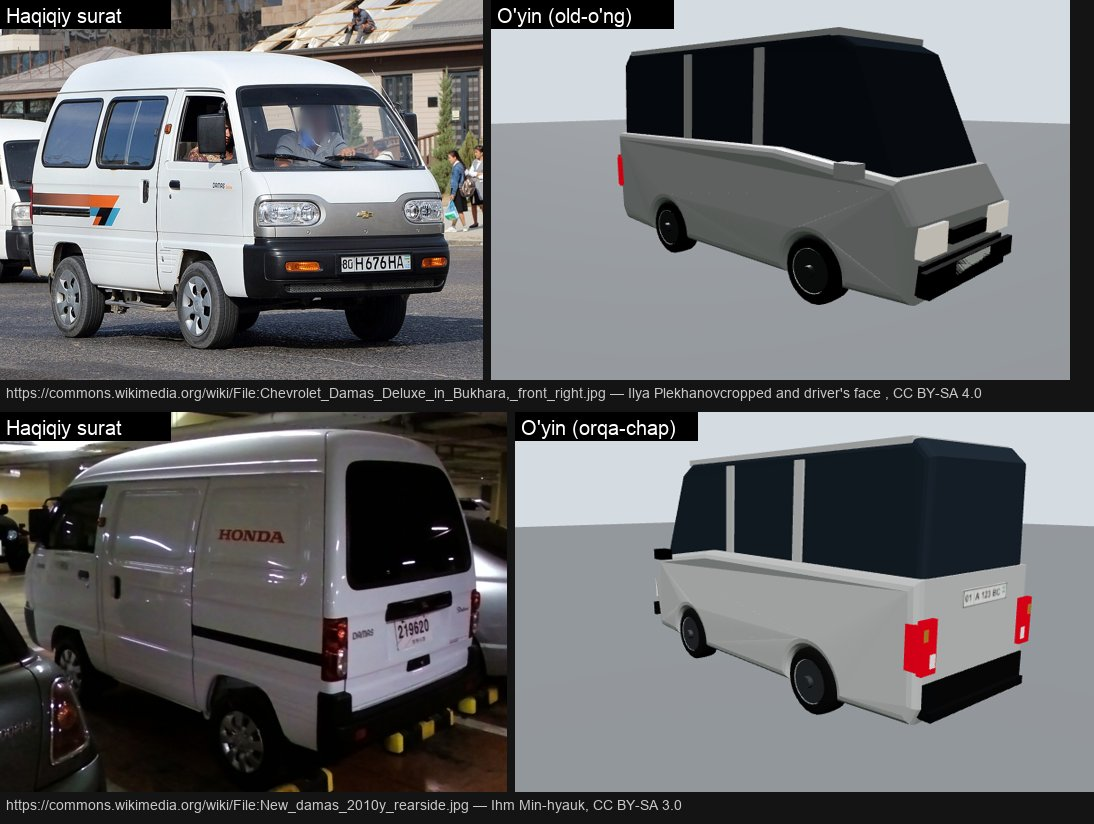
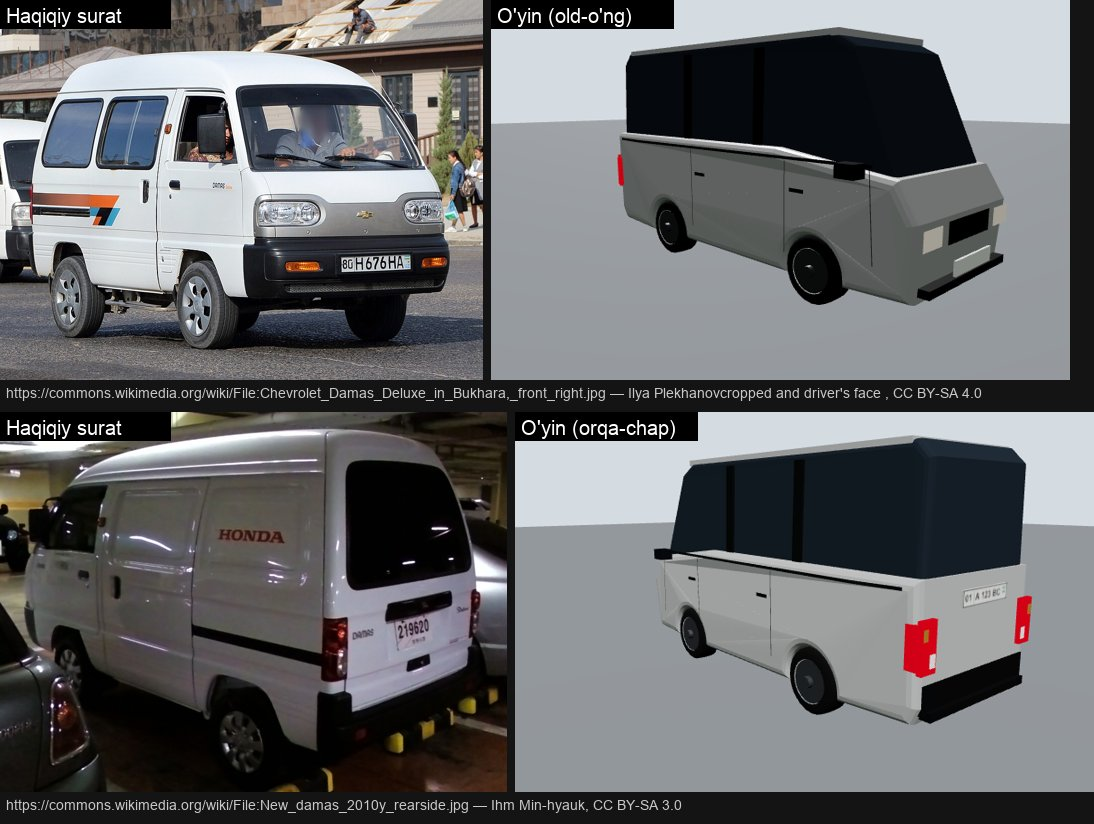
Detail kits for Gentra (plate on the lid), Nexia 3 (honeycomb grille, wheel covers, raised nose), Spark (tall lamps, big lower grille, lamps on the body), Malibu (slim lamps, chrome-framed grille, chrome window line, twin-spoke wheels) and Damas (lamps, grille, sliding-door line); reference comparis

diff --git a/www/js/uzcars.js b/www/js/uzcars.js
@@ -25,25 +25,25 @@ const MODELS = {
     L: 4.52, W: 1.725, H: 1.445, R: 0.3, wheels: [1.33, -1.27], smooth: true, weight: 0.22,
     top: [[2.28, 0.5], [2.22, 0.66], [1.95, 0.75], [1.2, 0.85], [0.8, 0.89], [-0.6, 0.94], [-1.55, 0.98], [-1.78, 1.0], [-2.18, 0.97], [-2.27, 0.84], [-2.25, 0.5]],
     glass: [[0.8, 0.9], [0.06, 1.41], [-0.8, 1.445], [-1.26, 1.36], [-1.62, 1.0]],
-    head: { x: 0.58, y: 0.71, z: 2.2, w: 0.48, h: 0.17, tilt: 0.55, sweep: { bot: 0.69, top: 0.79, len: 0.36 } }, tail: { x: 0.6, y: 0.88, w: 0.44, h: 0.17, bar: true, wrap: { inTop: 0.36, inBot: 0.44, top: 0.97, bot: 0.8, side: 0.26 } },
-    grille: { y: 0.64, w: 0.6, h: 0.12 }, lower: { y: 0.4, w: 0.9, h: 0.14 }, fog: true,
+    head: { x: 0.58, y: 0.71, z: 2.2, w: 0.48, h: 0.17, tilt: 0.55, sweep: { bot: 0.69, top: 0.79, len: 0.36 } }, tail: { x: 0.6, y: 0.88, w: 0.44, h: 0.17, bar: false, wrap: { inTop: 0.36, inBot: 0.44, top: 0.97, bot: 0.8, side: 0.26 }, plateOnLid: 0.82 },
+    grille: { y: 0.64, w: 0.6, h: 0.12 }, lower: { y: 0.4, w: 0.9, h: 0.14 }, fog: true, kit: 'gentra', frontPlateY: 0.43,
   },
   // Nexia 3 (also sold as Ravon Nexia R3, 2016-2020): the 4th-generation compact sedan body built at
   // Asaka. About 4310 x 1710 x 1505 mm, wheelbase 2480 mm. Tall cabin with a big rear window, short
   // boot, plate in a recess in the boot lid, round-element tail lamps on the corners, honeycomb grille.
   nexia: {
     L: 4.31, W: 1.71, H: 1.505, R: 0.3, wheels: [1.325, -1.155], smooth: true, weight: 0.18,
-    top: [[2.155, 0.6], [2.12, 0.78], [1.95, 0.86], [1.3, 0.93], [0.95, 0.95], [-0.5, 0.99], [-1.5, 1.03], [-1.75, 1.05], [-2.08, 1.03], [-2.155, 0.95], [-2.155, 0.55]],
+    top: [[2.155, 0.66], [2.13, 0.8], [1.95, 0.87], [1.3, 0.93], [0.95, 0.95], [-0.5, 0.99], [-1.5, 1.03], [-1.75, 1.05], [-2.08, 1.03], [-2.155, 0.95], [-2.155, 0.55]],
     glass: [[0.95, 0.94], [0.2, 1.47], [-0.55, 1.505], [-1.05, 1.46], [-1.58, 1.03]],
     head: { x: 0.58, y: 0.71, z: 2.13, w: 0.44, h: 0.15, tilt: 0.25, sweep: { bot: 0.68, top: 0.79, len: 0.3 } }, tail: { x: 0.58, y: 0.92, w: 0.36, h: 0.22, bar: false, wrap: { inTop: 0.5, inBot: 0.52, top: 1.01, bot: 0.8, side: 0.26 }, plateOnLid: 0.87, plateNoBar: true },
-    grille: { y: 0.66, w: 0.56, h: 0.14 }, lower: { y: 0.42, w: 1.0, h: 0.14 }, fog: true,
+    grille: { y: 0.66, w: 0.56, h: 0.14 }, lower: { y: 0.42, w: 1.0, h: 0.14 }, fog: true, kit: 'nexia', frontPlateY: 0.47,
   },
   spark: {
     L: 3.64, W: 1.6, H: 1.52, R: 0.29, wheels: [1.17, -1.21], smooth: true, weight: 0.18,
-    top: [[1.84, 0.55], [1.77, 0.72], [1.45, 0.82], [1.05, 0.88], [-0.4, 0.95], [-1.62, 0.99], [-1.8, 0.97], [-1.84, 0.6]],
+    top: [[1.84, 0.62], [1.8, 0.76], [1.45, 0.84], [1.05, 0.88], [-0.4, 0.95], [-1.62, 0.99], [-1.8, 0.97], [-1.84, 0.6]],
     glass: [[1.05, 0.87], [0.42, 1.44], [-0.55, 1.52], [-1.45, 1.5], [-1.7, 1.32], [-1.74, 0.98]],
-    head: { x: 0.52, y: 0.78, z: 1.76, w: 0.38, h: 0.26, tilt: 0.6 }, tail: { x: 0.62, y: 1.08, w: 0.17, h: 0.36 },
-    grille: { y: 0.6, w: 0.5, h: 0.12 }, lower: { y: 0.42, w: 0.8, h: 0.16 },
+    head: { x: 0.52, y: 0.78, z: 1.76, w: 0.38, h: 0.26, tilt: 0.6 }, tail: { x: 0.6, y: 0.86, w: 0.17, h: 0.3 },
+    grille: { y: 0.6, w: 0.5, h: 0.12 }, lower: { y: 0.42, w: 0.8, h: 0.16 }, kit: 'spark', frontPlateY: 0.45,
   },
   // the black mid-size sedan (Malibu style, 9th generation): long and low, a sloping fastback roof,
   // short boot, slim lamps joined by a chrome bar. Rare in traffic, mostly black.
@@ -51,15 +51,15 @@ const MODELS = {
     L: 4.92, W: 1.854, H: 1.465, R: 0.33, wheels: [1.42, -1.41], smooth: true, weight: 0.05,
     top: [[2.46, 0.5], [2.41, 0.7], [2.15, 0.79], [1.4, 0.88], [0.98, 0.92], [-0.6, 0.98], [-1.7, 1.02], [-2.0, 1.04], [-2.36, 1.02], [-2.46, 0.92], [-2.45, 0.5]],
     glass: [[0.98, 0.91], [0.1, 1.42], [-0.6, 1.465], [-1.2, 1.4], [-1.95, 1.04]],
-    head: { x: 0.66, y: 0.76, z: 2.38, w: 0.42, h: 0.09, tilt: 0.6 }, tail: { x: 0.66, y: 0.95, w: 0.4, h: 0.12, bar: true, wrap: { inTop: 0.52, inBot: 0.58, top: 1.0, bot: 0.9, side: 0.34 } },
-    grille: { y: 0.66, w: 0.9, h: 0.16 }, lower: { y: 0.42, w: 1.2, h: 0.2 }, colors: [0x060709, 0x060709, 0x060709, 0x101216, 0xf4f4f6],
+    head: { x: 0.66, y: 0.76, z: 2.38, w: 0.42, h: 0.09, tilt: 0.6 }, tail: { x: 0.66, y: 0.95, w: 0.4, h: 0.12, bar: false, wrap: { inTop: 0.52, inBot: 0.58, top: 1.0, bot: 0.88, side: 0.34 }, plateOnLid: 0.8 },
+    grille: { y: 0.66, w: 0.9, h: 0.16 }, lower: { y: 0.42, w: 1.2, h: 0.2 }, kit: 'malibu', frontPlateY: 0.5, colors: [0x060709, 0x060709, 0x060709, 0x101216, 0xf4f4f6],
   },
   damas: {
     L: 3.49, W: 1.4, H: 1.9, R: 0.26, wheels: [0.98, -0.86], smooth: false, weight: 0.12,
     top: [[1.75, 0.72], [1.62, 0.93], [0.6, 1.06], [-1.74, 1.06], [-1.75, 0.34]],
     glass: [[1.62, 0.92], [1.22, 1.8], [1.02, 1.9], [-1.66, 1.9], [-1.74, 1.82], [-1.74, 1.06]],
     head: { x: 0.48, y: 0.62, z: 1.74, w: 0.3, h: 0.2, tilt: 0 }, tail: { x: 0.6, y: 0.72, w: 0.14, h: 0.34, plateY: 0.98 },
-    grille: { y: 0.6, w: 0.5, h: 0.1 }, lower: { y: 0.38, w: 1.3, h: 0.14 },
+    grille: { y: 0.6, w: 0.5, h: 0.1 }, lower: { y: 0.38, w: 1.3, h: 0.14 }, kit: 'damas',
   },
 };
 
@@ -134,7 +134,12 @@ function rimGeo(R, type) {
   const parts = [new THREE.CylinderGeometry(R * 0.64, R * 0.64, 0.05, 20).rotateZ(Math.PI / 2).translate(0.07, 0, 0),
     new THREE.CylinderGeometry(R * 0.17, R * 0.17, 0.07, 12).rotateZ(Math.PI / 2).translate(0.1, 0, 0)];
   const spokes = type === 'damas' ? 0 : type === 'spark' ? 4 : 5;
-  if (type === 'cobalt') {
+  if (type === 'malibu') {
+    for (let i = 0; i < 5; i++) for (const d of [-0.16, 0.16]) parts.push(new THREE.BoxGeometry(0.028, R * 0.52, 0.06).translate(0.105, R * 0.34, 0).rotateX((i / 5) * Math.PI * 2 + d));
+  } else if (type === 'nexia') {
+    // steel wheel with a plastic cover: many short slots
+    for (let i = 0; i < 10; i++) parts.push(new THREE.BoxGeometry(0.03, R * 0.3, 0.05).translate(0.1, R * 0.42, 0).rotateX((i / 10) * Math.PI * 2));
+  } else if (type === 'cobalt') {
     // 15-inch alloy of the LTZ trim: six pairs of thin spokes
     for (let i = 0; i < 6; i++) for (const d of [-0.13, 0.13]) parts.push(new THREE.BoxGeometry(0.025, R * 0.5, 0.06).translate(0.105, R * 0.34, 0).rotateX((i / 6) * Math.PI * 2 + d));
   } else for (let i = 0; i < spokes; i++) parts.push(new THREE.BoxGeometry(0.04, R * 0.5, 0.07).translate(0.105, R * 0.33, 0).rotateX((i / spokes) * Math.PI * 2));
@@ -364,6 +369,83 @@ const KITS = {
     rear: [['dark', [[-0.3, 0.405], [0.3, 0.405], [0.3, 0.535], [-0.3, 0.535]]]],
     belt: [[0.78, 0.957], [-1.58, 0.957]],
   },
+  // Gentra / Lacetti sedan (Uzbek-built 2013-2024; photos of Tashkent cars): low bonnet, big swept clear
+  // headlamps, chrome bar between the upper slot and the lower grille, round fog lamps; plate on the boot lid.
+  gentra: {
+    front: [
+      ['lens', [[0.34, 0.555], [0.33, 0.64], [0.45, 0.668], [0.6, 0.695], [0.74, 0.722], [0.8, 0.722], [0.79, 0.685], [0.7, 0.638], [0.56, 0.58], [0.44, 0.553]], true],
+      ['lensIn', circle(0.44, 0.61, 0.038), true], ['lensIn', circle(0.55, 0.625, 0.034), true],
+      ['dark', [[-0.3, 0.6], [0.3, 0.6], [0.31, 0.645], [-0.31, 0.645]]],
+      ['chrome', [[-0.33, 0.583], [0.33, 0.583], [0.33, 0.6], [-0.33, 0.6]]],
+      ['mesh', [[-0.33, 0.58], [0.33, 0.58], [0.29, 0.475], [-0.29, 0.475]]],
+      ['dark', [[-0.36, 0.385], [0.36, 0.385], [0.31, 0.31], [-0.31, 0.31]]],
+      ['dark', circle(0.58, 0.37, 0.07, 0.05), true], ['fog', circle(0.58, 0.37, 0.03), true],
+    ],
+    seams: [[[0.93, 0.38], [0.9, 0.6], [0.78, 0.9]], [[-0.1, 0.36], [-0.11, 0.9]], [[-0.86, 0.38], [-0.93, 0.6], [-1.1, 0.9]]],
+    handles: [[0.27, 0.82], [-0.57, 0.82]],
+    belt: [[0.78, 0.893], [-1.6, 0.893]],
+    rearSeams: [[[-0.36, 0.97], [-0.42, 0.8], [-0.38, 0.72], [0, 0.7], [0.38, 0.72], [0.42, 0.8], [0.36, 0.97]]],
+  },
+  // Nexia 3 (Ravon Nexia R3, T250 body): big swept headlamps rising along the bonnet, honeycomb grille right
+  // under the bonnet edge with a chrome top, plate and dark intake on the bumper, fog lamps; plate on the lid.
+  nexia: {
+    front: [
+      ['lens', [[0.33, 0.62], [0.31, 0.72], [0.42, 0.75], [0.56, 0.78], [0.7, 0.805], [0.79, 0.82], [0.81, 0.795], [0.74, 0.735], [0.6, 0.66], [0.45, 0.62]], true],
+      ['lensIn', circle(0.44, 0.685, 0.042), true],
+      ['mesh', [[-0.3, 0.728], [0.3, 0.728], [0.26, 0.6], [-0.26, 0.6]]],
+      ['chrome', [[-0.31, 0.728], [0.31, 0.728], [0.31, 0.745], [-0.31, 0.745]]],
+      ['dark', [[-0.36, 0.42], [0.36, 0.42], [0.32, 0.34], [-0.32, 0.34]]],
+      ['dark', circle(0.58, 0.4, 0.07, 0.048), true], ['fog', circle(0.58, 0.4, 0.03), true],
+    ],
+    seams: [[[0.92, 0.4], [0.89, 0.62], [0.8, 0.94]], [[-0.12, 0.38], [-0.13, 0.94]], [[-0.76, 0.4], [-0.83, 0.62], [-1.02, 0.95]]],
+    handles: [[0.25, 0.86], [-0.5, 0.86]],
+    belt: [[0.93, 0.945], [-1.55, 0.945]],
+    rearSeams: [[[-0.5, 1.01], [-0.53, 0.82], [-0.45, 0.73], [0, 0.71], [0.45, 0.73], [0.53, 0.82], [0.5, 1.01]]],
+  },
+  // Spark (M300): huge headlamps climbing up beside the bonnet to the A-pillars, thin upper slot, big
+  // honeycomb lower grille with the plate on it, fog lamps; rear door handles hidden in the window frame.
+  spark: {
+    front: [
+      ['lens', [[0.3, 0.57], [0.29, 0.66], [0.4, 0.7], [0.55, 0.745], [0.66, 0.78], [0.72, 0.795], [0.74, 0.765], [0.68, 0.7], [0.55, 0.615], [0.42, 0.565]], true],
+      ['lensIn', circle(0.42, 0.63, 0.04), true],
+      ['dark', [[-0.26, 0.62], [0.26, 0.62], [0.27, 0.66], [-0.27, 0.66]]],
+      ['mesh', [[-0.33, 0.565], [0.33, 0.565], [0.37, 0.4], [-0.37, 0.4]]],
+      ['dark', circle(0.56, 0.34, 0.06, 0.045), true], ['fog', circle(0.56, 0.34, 0.028), true],
+    ],
+    seams: [[[0.79, 0.4], [0.76, 0.62], [0.68, 0.95]], [[-0.2, 0.38], [-0.21, 0.97]], [[-0.82, 0.4], [-0.9, 0.62], [-1.05, 0.98]]],
+    handles: [[0.12, 0.86]],
+    belt: [[0.98, 0.955], [-1.45, 0.955]],
+    rearSeams: [[[-0.5, 1.32], [-0.52, 0.66], [0, 0.64], [0.52, 0.66], [0.5, 1.32]]],
+  },
+  // Black mid-size sedan (Malibu style, 9th generation): slim headlamps, thin chrome-framed upper grille,
+  // chrome bar, big lower grille, vertical fog-lamp slots; chrome window line.
+  malibu: {
+    front: [
+      ['lens', [[0.37, 0.62], [0.36, 0.665], [0.5, 0.69], [0.66, 0.725], [0.8, 0.765], [0.84, 0.758], [0.8, 0.72], [0.66, 0.672], [0.5, 0.632]], true],
+      ['dark', [[-0.34, 0.632], [0.34, 0.632], [0.35, 0.68], [-0.35, 0.68]]],
+      ['chrome', [[-0.36, 0.68], [0.36, 0.68], [0.36, 0.692], [-0.36, 0.692]]],
+      ['chrome', [[-0.37, 0.612], [0.37, 0.612], [0.37, 0.63], [-0.37, 0.63]]],
+      ['mesh', [[-0.4, 0.605], [0.4, 0.605], [0.36, 0.42], [-0.36, 0.42]]],
+      ['dark', [[0.58, 0.36], [0.66, 0.36], [0.66, 0.5], [0.58, 0.5]], true],
+    ],
+    seams: [[[1.02, 0.42], [0.98, 0.66], [0.88, 0.98]], [[-0.1, 0.4], [-0.12, 0.99]], [[-0.98, 0.42], [-1.05, 0.66], [-1.3, 0.99]]],
+    handles: [[0.32, 0.9], [-0.6, 0.9]],
+    belt: [[0.96, 1.0], [-1.9, 1.0]],
+    beltMat: 'chrome',
+    rearSeams: [[[-0.5, 1.0], [-0.54, 0.86], [-0.4, 0.74], [0, 0.72], [0.4, 0.74], [0.54, 0.86], [0.5, 1.0]]],
+  },
+  // Damas: flat-fronted micro-van; rectangular headlamps either side of a dark grille with a chrome bar;
+  // front doors and the sliding side door.
+  damas: {
+    front: [
+      ['lens', [[0.38, 0.56], [0.62, 0.56], [0.62, 0.7], [0.38, 0.7]], true],
+      ['dark', [[-0.3, 0.55], [0.3, 0.55], [0.3, 0.71], [-0.3, 0.71]]],
+      ['chrome', [[-0.3, 0.62], [0.3, 0.62], [0.3, 0.64], [-0.3, 0.64]]],
+    ],
+    seams: [[[1.52, 0.42], [1.48, 1.05]], [[0.74, 0.36], [0.74, 1.05]], [[-0.42, 0.36], [-0.42, 1.05]]],
+    handles: [[0.86, 0.84], [-0.3, 0.84]],
+    belt: [[1.5, 1.07], [-1.7, 1.07]],
+  },
 };
 function buildKit(name, surf, m) {
   const K = KITS[name], out = [];
@@ -393,7 +475,7 @@ function buildKit(name, surf, m) {
   for (const sm of K.rearSeams || []) out.push([strip(sm, 0.007, rearMap), 'seam', true]);
   for (const sd of [-1, 1]) {
     for (const sm of K.seams) out.push([strip(sm, 0.007, sideMap(sd)), 'seam', true]);
-    out.push([strip(K.belt, 0.022, sideMap(sd)), 'dark', true]);
+    out.push([strip(K.belt, K.beltMat ? 0.014 : 0.022, sideMap(sd)), K.beltMat || 'dark', true]);
     for (const [hx, hy] of K.handles) out.push([strip([[hx + 0.07, hy], [hx - 0.07, hy]], 0.028, sideMap(sd)), 'chrome', true]);
   }
   void m;
@@ -553,6 +635,14 @@ export function createUzCar(type) {
   if (type !== 'damas') {
     strip(gl[0], gl[1], 0.08, 0);                               // A-pillars
     strip(gl[gl.length - 2], gl[gl.length - 1], type === 'spark' ? 0.16 : 0.24, 0);   // C-pillars
+  }
+  if (type === 'damas' && !bodyGeo.userData.surf) {
+    // the van's extruded body: flat front and rear faces, sides pulled in a little at the corners and roof
+    const shoulder = m.glass[0][1] - 0.08;
+    bodyGeo.userData.surf = {
+      end(w, y, front) { return Math.abs(w) < m.W / 2 * 0.93 && y > m.R * 0.95 && y < 0.95 ? (front ? -(m.L / 2 + 0.095) : m.L / 2 + 0.095) : null; },
+      side(xp, y) { const t = Math.abs(xp) / (m.L / 2); return (m.W / 2) * (1 - 0.05 * smooth(0.72, 1, t)) * (1 - 0.02 * smooth(shoulder, m.H, y)); },
+    };
   }
   if (m.kit && bodyGeo.userData.surf) { const kit = cg(`kit${type}`, () => buildKit(m.kit, bodyGeo.userData.surf, m)); for (const [geo, mat, inDetail] of kit) { const o = new THREE.Mesh(geo, KIT_MATS[mat]()); (inDetail ? detail : g).add(o); } }
   if (m.kit) for (const p of pillars) if (p.userData.bpillar) p.material = black();   // black B-pillar applique (window frames)

diff --git a/docs/PROGRESS.md b/docs/PROGRESS.md
@@ -6,6 +6,35 @@ To'liq natijalar: `docs/TOSHKENT-1TO1.md`.
 
 Oxirgi sinalgan commit va keyingi vazifa shu fayl oxirida.
 
+## 2026-11-28 kunduzgi ish, 5-qism: Cobalt detallari, keyin qolgan 5 mashina
+
+### Cobalt (6991f57 dan, kuzov o'lchamlari saqlandi)
+- **Yangi texnika:** detallar quti emas, kuzov sirtiga yotqizilgan shakllar (`surfDecal`, `buildKit`, `KITS` — `uzcars.js`). Kontur uchburchaklarga bo'linadi va har nuqta lofted kuzov sirtiga tushiriladi, shuning uchun burun va qanot egriligiga mos keladi.
+- **Old tomon:**
+  - faralar burchakda, yuqori qirrasi kapot chizig'i bo'ylab qanotga ko'tariladi;
+  - bitta teshikda ikki panjara: tor yuqori tirqish xrom qirra bilan, xrom chiziq, katta pastki panjara;
+  - raqam bamperda (0.44 m);
+  - qora chuqurchalarda dumaloq tuman chiroqlari, raqam ostida qora havo kirish joyi;
+  - ko'zgu oyoqchasi bilan.
+- **Yon tomon:** eshik chiziqlari (old eshik old g'ildirak o'yig'i ortida, B-ustun, orqa eshik orqa o'yiq atrofida), dastaklar, oyna ostidagi qora molding, qora B-ustun.
+- **Orqa tomon:** yukxona qopqog'i chizig'i (chiroqlar ichidan tushib, markazda pastga egiladi), raqam chuqurchasi, kengroq orqa chiroqlar.
+- **G'ildirak:** LTZ'ning 15 dyuymli 6 juft parmoqli diski.
+- **Tekshiruv:**
+  - uchta burchakdan haqiqiy suratlar bilan: Kobaltuz (to'g'ri oldidan), Chili (old-chap), Chilonzor-5 (old-o'ng) — `docs/compare/cobalt-front-check.jpg`;
+  - orqa kamera va Toshkent surati — `cobalt-rear-check.jpg`;
+  - qarshi qatorda yaqinlashayotgan klip — `docs/footage/cobalt-oncoming.webm` (Sobir Rahimov ko'chasi, Sergeli).
+- **Ochiq aytaman:** kapot yumaloq "sovun" shaklida, haqiqiy Cobalt'dagi qanot qirrasi yo'q; orqa chiroqlar tekis qizil, ichki bo'limlari yo'q; old yuz tikroq.
+
+### Gentra, Nexia 3, Spark, Damas, Malibu
+- **Har biriga o'z suratlari bo'yicha detal to'plami:**
+  - **Gentra:** raqam qopqoqda, xrom chiziqli ikki panjara, tuman chiroqlari.
+  - **Nexia 3 (T250):** asal ko'zli panjara kapot qirrasi ostida, katta faralar, raqam qopqoqda, g'ildirak qopqoqlari; burun 6 sm ko'tarildi.
+  - **Spark:** baland faralar, katta asal ko'zli pastki panjara, orqa eshik dastaklari yashirin; burun ko'tarildi; orqa chiroqlar kuzovga tushirildi.
+  - **Malibu:** ingichka faralar, xrom ramkali tor panjara, katta pastki panjara, vertikal tuman tirqishlari, xrom oyna chizig'i, raqam qopqoqda, 5 juft parmoqli disk.
+  - **Damas:** to'rtburchak faralar, xromli qora panjara, surma eshik chizig'i.
+- **Solishtirish:** `docs/compare/car-*.jpg` (Commons surati va o'yin, bir xil burchak).
+  - **Halol baho:** bu beshtasida faqat birinchi qadam qilindi. Kuzov kontur bo'yicha suratga moslanmagan (Cobalt'dagidek kamera hisobi yo'q). Detallar kichik va ko'p burchakdan sezilmaydi.
+
 ## 2026-11-28 kunduzgi ish, 4-qism
 
 ### Taksi olish joyi filtri (har bir mashina uchun)
@@ -353,9 +382,9 @@ Oxirgi sinalgan commit va keyingi vazifa shu fayl oxirida.
 Shu fayl bilan birga push qilingan commit (`git log -1`), preview'da tekshirildi.
 
 ## BIRINCHI TUGALLANMAGAN VAZIFA
-- **Mashinalar:** kabina (oyna ramkalari va eshik chiziqlari), panjara va fara shakllari, disklar. Har biri `__carShot` + `carcompose.py` bilan suratga solishtiriladi. Litsenziyasi aniq (CC0 yoki CC-BY) 3D model topilsa, uni olish.
-- **Chorsu gumbazi:** naqsh va arkalar.
-- **Amir Temur xiyoboni:** zich, turli daraxtlar.
+- Gentra, Nexia 3, Spark, Damas va Malibu uchun Cobalt'dagi kontur jarayoni: suratdan kamera hisobi (`camsolve*.py`), konturni qo'yish (`__carOverlay` + `overlay.py`), uzunlik, kabina, burun va dumni tuzatish.
+- So'ng detal to'plamlarini aniqlashtirish.
+- Cobalt: kapot qanot qirrasi va orqa chiroqlarning ichki bo'limlari.
 
 ## Keyingi navbat
 1. **Qolgan obyektlar:**
